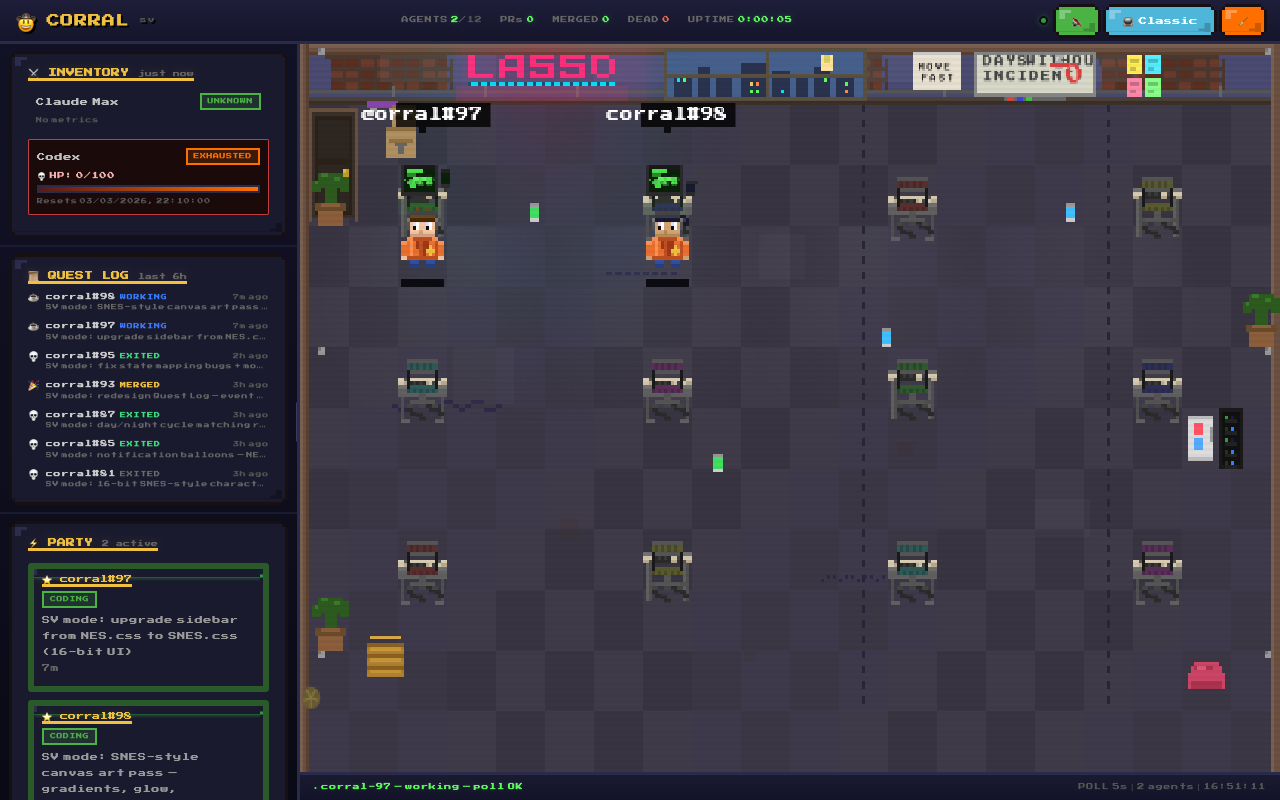
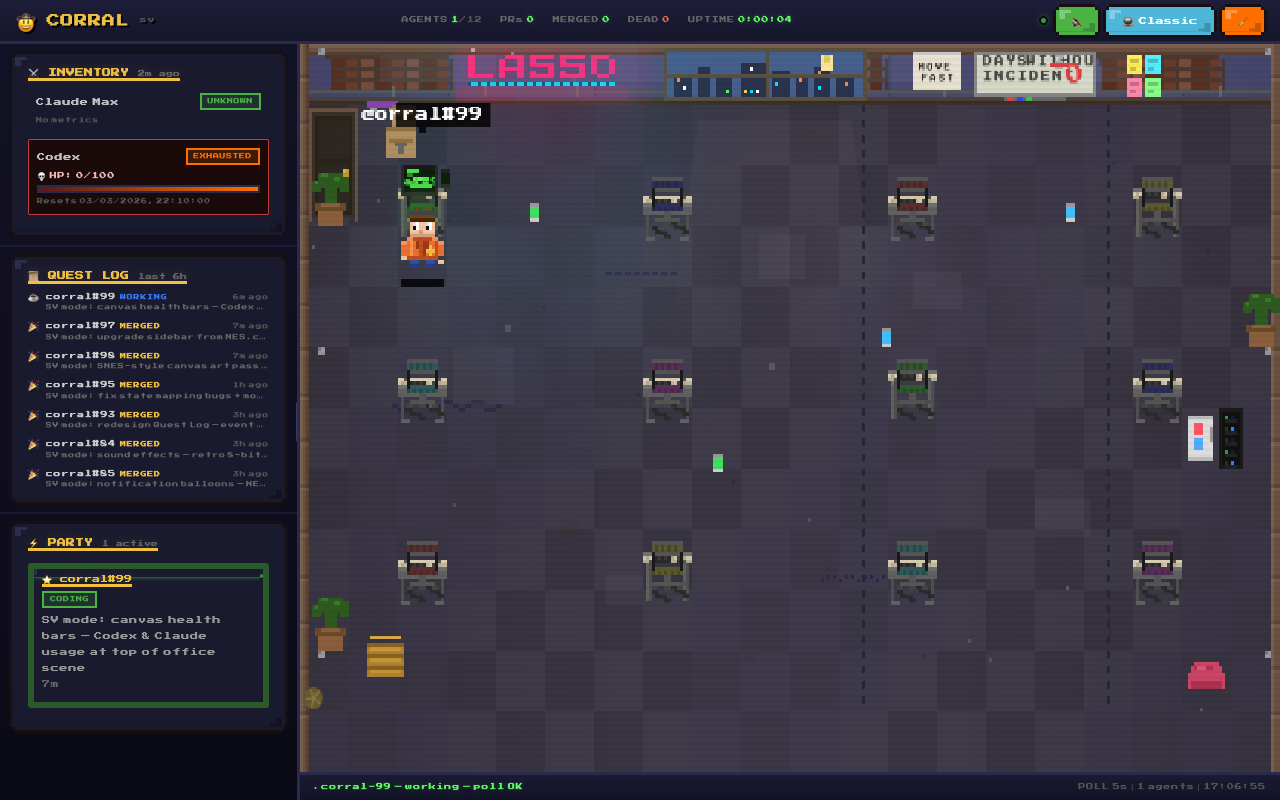
SV mode: canvas health bars — Codex & Claude usage at top of office scene
Draw two RPG-style health bars at the top of the canvas showing Claude and
Codex subscription usage. Bars change color based on remaining quota
(green >50%, yellow 20-50%, red <20%) with exhausted/error/loading states.

- Add drawUsageBars() rendering two side-by-side bars with pixel icons,
  labels, colored fill, and percentage text on semi-transparent backdrop
- Add updateCanvasUsage() to extract usage percentages from existing
  /api/usage poll data (no new API calls)
- Increase server-side usage cache TTL from 5 min to 1 hour to avoid
  hammering external APIs

Fixes #99

diff --git a/sv.html b/sv.html
@@ -795,6 +795,7 @@
 let agents = [];
 let historyData = [];
 let usageData = null;
+let canvasUsage = { claude: null, codex: null };
 let connectionState = 'connecting';
 let polling = false;
 const startTime = Date.now();
@@ -1234,8 +1235,39 @@ function renderAgentCards() {
   }).join('');
 }
 
+// --- Canvas usage bars ---
+function updateCanvasUsage() {
+  canvasUsage = { claude: null, codex: null };
+  if (!usageData || !Array.isArray(usageData.providers)) return;
+  usageData.providers.forEach(provider => {
+    const id = (provider.id || provider.name || '').toLowerCase();
+    const isExhausted = provider.quotaStatus && provider.quotaStatus.exhausted;
+    if (isExhausted) {
+      const key = id.includes('codex') ? 'codex' : 'claude';
+      canvasUsage[key] = { pct: 0, exhausted: true, name: provider.name || id };
+      return;
+    }
+    if (provider.status === 'error' || provider.status === 'unavailable') {
+      const key = id.includes('codex') ? 'codex' : 'claude';
+      canvasUsage[key] = { pct: null, exhausted: false, error: true, name: provider.name || id };
+      return;
+    }
+    const metrics = Array.isArray(provider.metrics) ? provider.metrics : [];
+    const percents = metrics.map(m => {
+      if (m.utilization !== null && m.utilization !== undefined) return Number(m.utilization) / 100;
+      if (m.used == null || m.limit == null || m.limit === 0) return null;
+      return Math.min(1, Math.max(0, m.used / m.limit));
+    }).filter(p => p !== null);
+    const highest = percents.length ? Math.max(...percents) : null;
+    const remaining = highest !== null ? Math.round((1 - highest) * 100) : null;
+    const key = id.includes('codex') ? 'codex' : 'claude';
+    canvasUsage[key] = { pct: remaining, exhausted: false, name: provider.name || id };
+  });
+}
+
 // --- Usage panel ---
 function renderUsageCards() {
+  updateCanvasUsage();
   const container = document.getElementById('usageCards');
   const updatedEl = document.getElementById('usageUpdated');
   if (!container) return;
@@ -2898,6 +2930,110 @@ function buildCanvasAgents() {
   });
 }
 
+function drawUsageBars() {
+  ctx.save(); ctx.scale(SCALE, SCALE);
+  const W = COLS * TILE; // 320 unscaled
+  const bgY = 0, bgH = 11;
+  // Semi-transparent background strip
+  ctx.fillStyle = 'rgba(10,10,30,0.75)';
+  ctx.fillRect(0, bgY, W, bgH);
+  // Bottom border
+  ctx.fillStyle = 'rgba(255,255,255,0.08)';
+  ctx.fillRect(0, bgY + bgH, W, 1);
+
+  const barY = 4, barH = 5, barW = 88;
+  const entries = [
+    { key: 'claude', label: 'CLAUDE', iconColor: '#f0c040', x: 4 },
+    { key: 'codex', label: 'CODEX', iconColor: '#3adf7a', x: 160 },
+  ];
+
+  entries.forEach(e => {
+    const data = canvasUsage[e.key];
+    const labelX = e.x + 8;
+    const barX = e.x + 42;
+
+    // Icon: star for Claude, coin for Codex
+    if (e.key === 'claude') {
+      // Small star icon
+      ctx.fillStyle = e.iconColor;
+      ctx.fillRect(e.x + 2, barY - 1, 1, 3);
+      ctx.fillRect(e.x, barY, 5, 1);
+      ctx.fillRect(e.x + 1, barY + 1, 3, 1);
+      ctx.fillRect(e.x + 1, barY - 2, 3, 1);
+    } else {
+      // Small coin icon
+      ctx.fillStyle = e.iconColor;
+      ctx.fillRect(e.x + 1, barY - 1, 3, 3);
+      ctx.fillRect(e.x, barY, 5, 1);
+      ctx.fillStyle = '#2a8a5a';
+      ctx.fillRect(e.x + 2, barY, 1, 1);
+    }
+
+    // Label
+    ctx.font = '3px "Press Start 2P"';
+    ctx.fillStyle = '#c0c0d0';
+    ctx.fillText(e.label, labelX, barY + 3);
+
+    // Bar background
+    ctx.fillStyle = '#1a1a2e';
+    ctx.fillRect(barX, barY, barW, barH);
+    // Bar border
+    ctx.fillStyle = '#3a3a5e';
+    ctx.fillRect(barX, barY, barW, 1);
+    ctx.fillRect(barX, barY + barH - 1, barW, 1);
+    ctx.fillRect(barX, barY, 1, barH);
+    ctx.fillRect(barX + barW - 1, barY, 1, barH);
+
+    if (!data) {
+      // Loading state
+      ctx.fillStyle = '#555';
+      ctx.fillRect(barX + 1, barY + 1, barW - 2, barH - 2);
+      ctx.fillStyle = '#888';
+      ctx.font = '3px "Press Start 2P"';
+      ctx.fillText('...', barX + barW / 2 - 5, barY + 4);
+    } else if (data.error) {
+      // Error state
+      ctx.fillStyle = '#444';
+      ctx.fillRect(barX + 1, barY + 1, barW - 2, barH - 2);
+      ctx.fillStyle = '#ff5c5c';
+      ctx.font = '3px "Press Start 2P"';
+      ctx.fillText('ERR', barX + barW / 2 - 6, barY + 4);
+    } else if (data.exhausted) {
+      // Exhausted: full red, flashing label
+      ctx.fillStyle = '#ff5c5c';
+      ctx.fillRect(barX + 1, barY + 1, barW - 2, barH - 2);
+      // Flashing EXHAUSTED text
+      if (Math.floor(frame / 30) % 2 === 0) {
+        ctx.fillStyle = '#fff';
+        ctx.font = '3px "Press Start 2P"';
+        ctx.fillText('EXHAUSTED', barX + 4, barY + 4);
+      }
+      ctx.fillStyle = '#ff5c5c';
+      ctx.font = '3px "Press Start 2P"';
+      ctx.fillText('0%', barX + barW + 3, barY + 4);
+    } else if (data.pct !== null) {
+      // Normal bar
+      const pct = Math.max(0, Math.min(100, data.pct));
+      const fillW = Math.floor((barW - 2) * pct / 100);
+      const fillColor = pct > 50 ? '#3adf7a' : pct >= 20 ? '#f0c040' : '#ff5c5c';
+      ctx.fillStyle = fillColor;
+      ctx.fillRect(barX + 1, barY + 1, fillW, barH - 2);
+      // Percentage text
+      ctx.fillStyle = '#c0c0d0';
+      ctx.font = '3px "Press Start 2P"';
+      ctx.fillText(pct + '%', barX + barW + 3, barY + 4);
+    } else {
+      // Unknown: gray
+      ctx.fillStyle = '#444';
+      ctx.fillRect(barX + 1, barY + 1, barW - 2, barH - 2);
+      ctx.fillStyle = '#888';
+      ctx.font = '3px "Press Start 2P"';
+      ctx.fillText('...', barX + barW / 2 - 5, barY + 4);
+    }
+  });
+  ctx.restore();
+}
+
 function render() {
   frame++;
   ctx.clearRect(0, 0, 640, 384);
@@ -2908,6 +3044,7 @@ function render() {
   drawLampGlow(5, 0); drawLampGlow(15, 0);
   drawDivider(2); drawDivider(3);
   drawPropsSV();
+  drawUsageBars();
 
   DESKS.forEach((d, idx) => { drawDeskSV(d, idx); drawChairSV(d, idx); });
 

diff --git a/server.js b/server.js
@@ -10,7 +10,7 @@ const SESSIONS_FILE = process.env.LASSO_SESSIONS || path.join(process.env.HOME, 
 const HISTORY_FILE = process.env.LASSO_HISTORY || path.join(path.dirname(SESSIONS_FILE), 'history.json');
 const ONE_HOUR_MS = 60 * 60 * 1000;
 const TOKEN_CACHE_TTL_MS = 10 * 1000;
-const USAGE_CACHE_TTL_MS = 5 * 60 * 1000;
+const USAGE_CACHE_TTL_MS = 60 * 60 * 1000; // 1 hour — avoid hammering external usage APIs
 const USAGE_SCRIPT_TIMEOUT_MS = 15000;
 const LASSO_CLEAN_TIMEOUT_MS = 15000;
 const CODEX_QUOTA_FILE = process.env.CODEX_QUOTA_FILE || path.join(path.dirname(SESSIONS_FILE), 'codex-quota.json');
